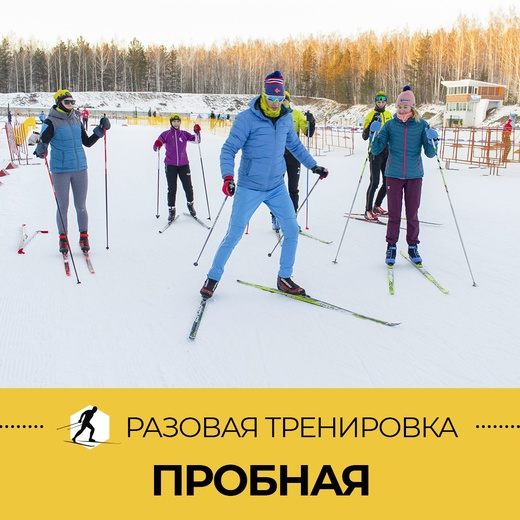
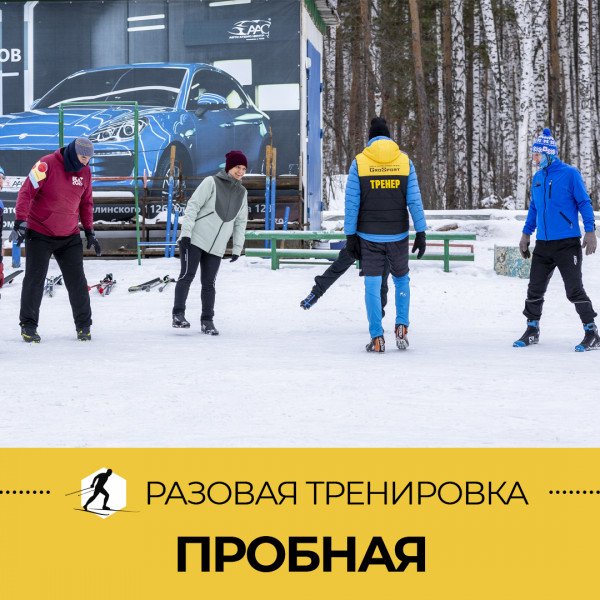
блок лыжная школа как в основном филиале

diff --git a/www/index.html b/www/index.html
@@ -468,7 +468,25 @@
             <img src="images/p-intro.jpg" data-summer="images/p-intro.jpg" data-winter="images/p-intro-winter.jpg"
               alt="Пробная тренировка" class="price-card__img" loading="lazy">
             <h3 class="price-card__title">Пробная тренировка</h3>
-            <p class="price-card__text">Пробная групповая тренировка — познакомьтесь с клубом и тренерами.</p>
+            <p class="price-card__text">
+              Пробная групповая тренировка позволит Вам познакомиться ближе с нашей лыжной школой. В ходе неё Вы
+              присоединитесь к одной из групп на выбор:
+            </p>
+            <!-- <h4 class="price-card__subtitle">- Начинающие BGN</h4>
+            <p class="price-card__text">
+              Данная группа идеально подходит для тех, кто делает свои первые шаги в лыжах. Мы научим Вас коньковому
+              ходу на беговых лыжах всего за один месяц! А далее перейдёте в соответствующую группу.
+            </p>
+            <h4 class="price-card__subtitle">- Середнячки MDL</h4>
+            <p class="price-card__text">
+              В данной группе занимаются более опытные лыжники, стремящиеся улучшить свою технику, а также подготовиться
+              к лыжным соревнованиям.
+            </p>
+            <h4 class="price-card__subtitle">- Опытные EXP</h4>
+            <p class="price-card__text">
+              В данной группе занимаются опытные лыжники, стремящиеся улучшить свою технику и улучшить функциональную
+              составляющую, а также подготовиться к лыжным марафонам и перейти в марафонскую команду.
+            </p> -->
             <div class="price-card__foot">
               <span class="price-card__price">500 ₽</span>
               <a href="#form" class="btn btn--accent btn--sm">Записаться</a>
@@ -479,10 +497,13 @@
             <img src="images/price-month.jpg" data-summer="images/price-month.jpg"
               data-winter="images/price-month-winter.jpg" alt="Абонемент на 1 месяц" class="price-card__img"
               loading="lazy">
-            <h3 class="price-card__title">Абонемент на 1 месяц</h3>
-            <p class="price-card__text">Для тех, кто готов усердно тренироваться.</p>
+            <h3 class="price-card__title">Разовая тренировка - персональная</h3>
+            <p class="price-card__text">
+              Персональные тренировки позволят Вам получить максимум от занятий, на которых все внимание тренера будет
+              направлено только на Вас, независимо от уровня Вашей подготовки!
+            </p>
             <div class="price-card__foot">
-              <span class="price-card__price">1 300 ₽</span>
+              <span class="price-card__price">9 900 ₽</span>
               <a href="#form" class="btn btn--accent btn--sm">Записаться</a>
             </div>
           </article>
@@ -491,9 +512,11 @@
             <img src="images/price-online.jpg" data-summer="images/price-online.jpg"
               data-winter="images/price-online-winter.jpg" alt="Тренировочный план online" class="price-card__img"
               loading="lazy">
-            <h3 class="price-card__title">Тренировочный план online</h3>
-            <p class="price-card__text">Персональные ведение спортсмена online, независимо от Вашего
-              местонахождения.Наши тренеры подготовят.</p>
+            <h3 class="price-card__title">Тренировочный план online на 1 месяц</h3>
+            <p class="price-card__text">
+              Персональные ведение спортсмена online, независимо от Вашего местонахождения.
+              Наши тренеры подготовят необходимый рабочий план под Ваши цели, независимо от уровня Вашей подготовки!
+            </p>
             <div class="price-card__foot">
               <span class="price-card__price">5 000 ₽</span>
               <a href="https://gro-sport.ru/ski-school" class="btn btn--accent btn--sm">Все абонементы</a>

diff --git a/www/css/style.css b/www/css/style.css
@@ -994,6 +994,12 @@ p {
   padding: 18px 20px 0;
 }
 
+.price-card__subtitle {
+  font-size: 14px;
+  padding: 18px 20px 0;
+  color: var(--yellow);
+}
+
 .price-card__text {
   font-size: 13.5px;
   color: var(--gray);
